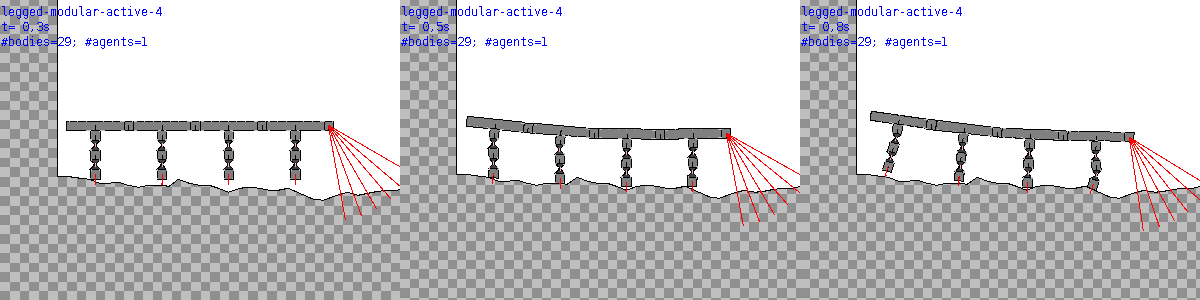
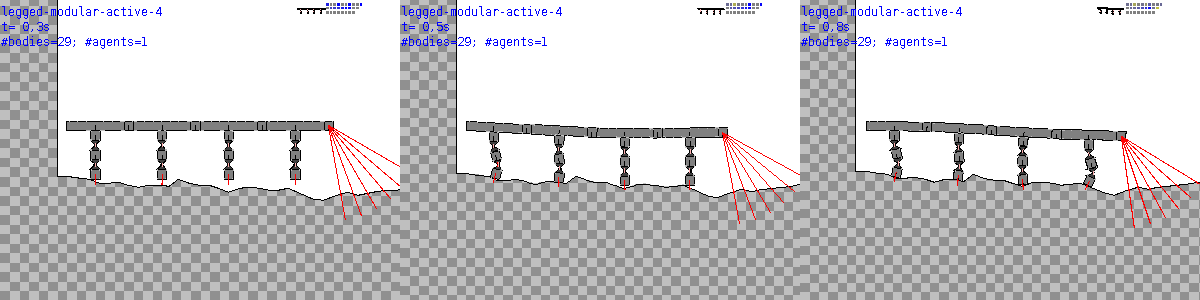
Doc assets updated.

diff --git a/it.units.erallab.robotevo2d.main/src/main/java/it/units/erallab/robotevo2d/main/helper/AgentImageWriter.java b/it.units.erallab.robotevo2d.main/src/main/java/it/units/erallab/robotevo2d/main/helper/AgentImageWriter.java
@@ -45,7 +45,7 @@ public class AgentImageWriter {
   );
 
   private static final String ENGINE_DESCRIPTION = "s.engine()";
-  private static final String DRAWER_DESCRIPTION = "s.drawer(actions = true; miniAgents = false; enlargement = 1.5)";
+  private static final String DRAWER_DESCRIPTION = "s.drawer(actions = true; miniAgents = brains; enlargement = 1.5)";
   private static final String IMGS_PATH = "assets/images/agents/";
 
   private static final int W = 400;

diff --git a/assets/builder-help.md b/assets/builder-help.md
@@ -571,6 +571,21 @@ Aliases: `ea.s`, `ea.solver`
 
 Produces <code><abbr title="it.units.malelab.jgea.core.solver.StandardEvolver">StandardEvolver</abbr><<abbr title="it.units.malelab.jgea.core.solver.state.POSetPopulationState">POSetPopulationState</abbr><<abbr title="java.util.List">List</abbr><<abbr title="java.lang.Double">Double</abbr>>, S, Q>, <abbr title="it.units.malelab.jgea.core.QualityBasedProblem">QualityBasedProblem</abbr><S, Q>, <abbr title="java.util.List">List</abbr><<abbr title="java.lang.Double">Double</abbr>>, S, Q></code>
 
+### Builder `ea.solver.openAIES()`
+
+`ea.s.openAIES(mapper; initialMinV; initialMaxV; sigma; batchSize; nEval)`
+
+| Param | Type | Default | Java type |
+| --- | --- | --- | --- |
+| `mapper` | npm |  | <code><abbr title="it.units.malelab.jgea.experimenter.InvertibleMapper">InvertibleMapper</abbr><<abbr title="java.util.List">List</abbr><<abbr title="java.lang.Double">Double</abbr>>, S></code> |
+| `initialMinV` | d | `-1.0` | <code>double</code> |
+| `initialMaxV` | d | `1.0` | <code>double</code> |
+| `sigma` | d | `0.35` | <code>double</code> |
+| `batchSize` | i | `15` | <code>int</code> |
+| `nEval` | i |  | <code>int</code> |
+
+Produces <code><abbr title="it.units.malelab.jgea.core.solver.OpenAIEvolutionaryStrategy">OpenAIEvolutionaryStrategy</abbr><S, Q></code>
+
 ### Builder `ea.solver.simpleES()`
 
 `ea.s.simpleES(mapper; initialMinV; initialMaxV; sigma; parentsRate; nOfElites; nPop; nEval; remap)`
@@ -687,7 +702,7 @@ Produces <code><abbr title="java.util.random.RandomGenerator">RandomGenerator</a
 | `profilingTime` | d | `1.0` | <code>double</code> |
 | `miniWorldEnlargement` | d | `10.0` | <code>double</code> |
 | `miniWorld` | b | `false` | <code>boolean</code> |
-| `miniAgents` | b | `true` | <code>boolean</code> |
+| `miniAgents` | e | `BRAINS` | <code><abbr title="it.units.erallab.mrsim2d.buildable.builders.Misc$MiniAgentInfo">Misc$MiniAgentInfo</abbr></code> |
 | `engineProfiling` | b | `false` | <code>boolean</code> |
 | `actions` | b | `false` | <code>boolean</code> |
 
@@ -788,10 +803,10 @@ Produces <code><abbr title="it.units.erallab.mrsim2d.core.agents.legged.NumLegge
 | Param | Type | Default | Java type |
 | --- | --- | --- | --- |
 | `legs` | npm[] | `[]` | <code><abbr title="java.util.List">List</abbr><<abbr title="it.units.erallab.mrsim2d.core.agents.legged.AbstractLeggedHybridRobot$Leg">AbstractLeggedHybridRobot$Leg</abbr>></code> |
-| `trunkLength` | d | `16.0` | <code>double</code> |
+| `trunkLength` | d | `24.0` | <code>double</code> |
 | `trunkWidth` | d | `1.0` | <code>double</code> |
-| `trunkMass` | d | `1.0` | <code>double</code> |
-| `headMass` | d | `0.25` | <code>double</code> |
+| `trunkMass` | d | `24.0` | <code>double</code> |
+| `headMass` | d | `1.0` | <code>double</code> |
 | `headSensors` | npm[] | `[]` | <code><abbr title="java.util.List">List</abbr><<abbr title="it.units.erallab.mrsim2d.core.Sensor">Sensor</abbr><?>></code> |
 | `function` | npm |  | <code><abbr title="it.units.erallab.mrsim2d.buildable.builders.TimedRealFunctions$Builder">TimedRealFunctions$Builder</abbr><?></code> |
 
@@ -808,7 +823,7 @@ Aliases: `s.a.l`, `s.a.legged`, `s.agent.l`, `s.agent.legged`, `sim.a.l`, `sim.a
 | Param | Type | Default | Java type |
 | --- | --- | --- | --- |
 | `legChunks` | npm[] | `[]` | <code><abbr title="java.util.List">List</abbr><<abbr title="it.units.erallab.mrsim2d.core.agents.legged.LegChunk">LegChunk</abbr>></code> |
-| `downConnectorMass` | d | `0.5625` | <code>double</code> |
+| `downConnectorMass` | d | `1.1025` | <code>double</code> |
 | `downConnector` | e | `RIGID` | <code><abbr title="it.units.erallab.mrsim2d.core.agents.legged.ConnectorType">ConnectorType</abbr></code> |
 | `downConnectorSensors` | npm[] | `[]` | <code><abbr title="java.util.List">List</abbr><<abbr title="it.units.erallab.mrsim2d.core.Sensor">Sensor</abbr><?>></code> |
 
@@ -820,17 +835,17 @@ Produces <code><abbr title="it.units.erallab.mrsim2d.core.agents.legged.Abstract
 
 | Param | Type | Default | Java type |
 | --- | --- | --- | --- |
-| `length` | d | `1.5` | <code>double</code> |
+| `length` | d | `1.05` | <code>double</code> |
 | `width` | d | `1.0` | <code>double</code> |
-| `mass` | d | `0.375` | <code>double</code> |
+| `mass` | d | `1.05` | <code>double</code> |
 | `upConnector` | e | `RIGID` | <code><abbr title="it.units.erallab.mrsim2d.core.agents.legged.ConnectorType">ConnectorType</abbr></code> |
 | `jointSensors` | npm[] | `[]` | <code><abbr title="java.util.List">List</abbr><<abbr title="it.units.erallab.mrsim2d.core.Sensor">Sensor</abbr><?>></code> |
-| `motorMaxSpeed` | d | `100.0` | <code>double</code> |
+| `motorMaxSpeed` | d | `20.0` | <code>double</code> |
 | `motorMaxTorque` | d | `1000.0` | <code>double</code> |
-| `motorControlP` | d | `25.0` | <code>double</code> |
-| `motorControlI` | d | `1.0` | <code>double</code> |
-| `motorControlD` | d | `1.0` | <code>double</code> |
-| `motorAngleTolerance` | d | `0.01` | <code>double</code> |
+| `motorControlP` | d | `10.0` | <code>double</code> |
+| `motorControlI` | d | `2.0` | <code>double</code> |
+| `motorControlD` | d | `2.0` | <code>double</code> |
+| `motorAngleTolerance` | d | `0.0` | <code>double</code> |
 
 Produces <code><abbr title="it.units.erallab.mrsim2d.core.agents.legged.LegChunk">LegChunk</abbr></code>
 
@@ -840,9 +855,9 @@ Produces <code><abbr title="it.units.erallab.mrsim2d.core.agents.legged.LegChunk
 
 | Param | Type | Default | Java type |
 | --- | --- | --- | --- |
-| `trunkLength` | d | `4.0` | <code>double</code> |
+| `trunkLength` | d | `6.0` | <code>double</code> |
 | `trunkWidth` | d | `1.0` | <code>double</code> |
-| `trunkMass` | d | `1.0` | <code>double</code> |
+| `trunkMass` | d | `6.0` | <code>double</code> |
 | `legChunks` | npm[] | `[]` | <code><abbr title="java.util.List">List</abbr><<abbr title="it.units.erallab.mrsim2d.core.agents.legged.LegChunk">LegChunk</abbr>></code> |
 | `downConnector` | e | `RIGID` | <code><abbr title="it.units.erallab.mrsim2d.core.agents.legged.ConnectorType">ConnectorType</abbr></code> |
 | `rightConnector` | e | `RIGID` | <code><abbr title="it.units.erallab.mrsim2d.core.agents.legged.ConnectorType">ConnectorType</abbr></code> |
@@ -1006,6 +1021,21 @@ Aliases: `s.f`, `s.function`, `sim.f`, `sim.function`
 
 Produces <code><abbr title="it.units.erallab.mrsim2d.buildable.builders.TimedRealFunctions$Builder">TimedRealFunctions$Builder</abbr><<abbr title="it.units.erallab.mrsim2d.core.functions.DiffInputTRF">DiffInputTRF</abbr>></code>
 
+### Builder `sim.function.groupedSin()`
+
+`s.f.groupedSin(size; p; f; a; b; s)`
+
+| Param | Type | Default | Java type |
+| --- | --- | --- | --- |
+| `size` | i |  | <code>int</code> |
+| `p` | npm | `sim.range(max=1.57;min=-1.57)` | <code><abbr title="it.units.erallab.mrsim2d.core.util.DoubleRange">DoubleRange</abbr></code> |
+| `f` | npm | `sim.range(max=1.0;min=0.0)` | <code><abbr title="it.units.erallab.mrsim2d.core.util.DoubleRange">DoubleRange</abbr></code> |
+| `a` | npm | `sim.range(max=0.5;min=0.0)` | <code><abbr title="it.units.erallab.mrsim2d.core.util.DoubleRange">DoubleRange</abbr></code> |
+| `b` | npm | `sim.range(max=0.5;min=-0.5)` | <code><abbr title="it.units.erallab.mrsim2d.core.util.DoubleRange">DoubleRange</abbr></code> |
+| `s` | npm | `sim.range(max=0.5;min=-0.5)` | <code><abbr title="it.units.erallab.mrsim2d.core.util.DoubleRange">DoubleRange</abbr></code> |
+
+Produces <code><abbr title="it.units.erallab.mrsim2d.buildable.builders.TimedRealFunctions$Builder">TimedRealFunctions$Builder</abbr><<abbr title="it.units.erallab.mrsim2d.core.functions.GroupedSinusoidal">GroupedSinusoidal</abbr>></code>
+
 ### Builder `sim.function.mlp()`
 
 `s.f.mlp(innerLayerRatio; nOfInnerLayers; activationFunction)`
@@ -1033,49 +1063,66 @@ Produces <code><abbr title="it.units.erallab.mrsim2d.buildable.builders.TimedRea
 
 ### Builder `sim.function.sinP()`
 
-`s.f.sinP(p; f; a)`
+`s.f.sinP(p; f; a; b)`
 
 | Param | Type | Default | Java type |
 | --- | --- | --- | --- |
 | `p` | npm | `sim.range(max=1.57;min=-1.57)` | <code><abbr title="it.units.erallab.mrsim2d.core.util.DoubleRange">DoubleRange</abbr></code> |
 | `f` | npm | `sim.range(max=1.0;min=0.0)` | <code><abbr title="it.units.erallab.mrsim2d.core.util.DoubleRange">DoubleRange</abbr></code> |
 | `a` | npm | `sim.range(max=1.0;min=0.0)` | <code><abbr title="it.units.erallab.mrsim2d.core.util.DoubleRange">DoubleRange</abbr></code> |
+| `b` | npm | `sim.range(max=0.5;min=-0.5)` | <code><abbr title="it.units.erallab.mrsim2d.core.util.DoubleRange">DoubleRange</abbr></code> |
 
 Produces <code><abbr title="it.units.erallab.mrsim2d.buildable.builders.TimedRealFunctions$Builder">TimedRealFunctions$Builder</abbr><<abbr title="it.units.erallab.mrsim2d.core.functions.Sinusoidal">Sinusoidal</abbr>></code>
 
 ### Builder `sim.function.sinPA()`
 
-`s.f.sinPA(p; f; a)`
+`s.f.sinPA(p; f; a; b)`
 
 | Param | Type | Default | Java type |
 | --- | --- | --- | --- |
 | `p` | npm | `sim.range(max=1.57;min=-1.57)` | <code><abbr title="it.units.erallab.mrsim2d.core.util.DoubleRange">DoubleRange</abbr></code> |
 | `f` | npm | `sim.range(max=1.0;min=0.0)` | <code><abbr title="it.units.erallab.mrsim2d.core.util.DoubleRange">DoubleRange</abbr></code> |
 | `a` | npm | `sim.range(max=1.0;min=0.0)` | <code><abbr title="it.units.erallab.mrsim2d.core.util.DoubleRange">DoubleRange</abbr></code> |
+| `b` | npm | `sim.range(max=0.5;min=-0.5)` | <code><abbr title="it.units.erallab.mrsim2d.core.util.DoubleRange">DoubleRange</abbr></code> |
 
 Produces <code><abbr title="it.units.erallab.mrsim2d.buildable.builders.TimedRealFunctions$Builder">TimedRealFunctions$Builder</abbr><<abbr title="it.units.erallab.mrsim2d.core.functions.Sinusoidal">Sinusoidal</abbr>></code>
 
 ### Builder `sim.function.sinPF()`
 
-`s.f.sinPF(p; f; a)`
+`s.f.sinPF(p; f; a; b)`
 
 | Param | Type | Default | Java type |
 | --- | --- | --- | --- |
 | `p` | npm | `sim.range(max=1.57;min=-1.57)` | <code><abbr title="it.units.erallab.mrsim2d.core.util.DoubleRange">DoubleRange</abbr></code> |
 | `f` | npm | `sim.range(max=1.0;min=0.0)` | <code><abbr title="it.units.erallab.mrsim2d.core.util.DoubleRange">DoubleRange</abbr></code> |
 | `a` | npm | `sim.range(max=1.0;min=0.0)` | <code><abbr title="it.units.erallab.mrsim2d.core.util.DoubleRange">DoubleRange</abbr></code> |
+| `b` | npm | `sim.range(max=0.5;min=-0.5)` | <code><abbr title="it.units.erallab.mrsim2d.core.util.DoubleRange">DoubleRange</abbr></code> |
 
 Produces <code><abbr title="it.units.erallab.mrsim2d.buildable.builders.TimedRealFunctions$Builder">TimedRealFunctions$Builder</abbr><<abbr title="it.units.erallab.mrsim2d.core.functions.Sinusoidal">Sinusoidal</abbr>></code>
 
 ### Builder `sim.function.sinPFA()`
 
-`s.f.sinPFA(p; f; a)`
+`s.f.sinPFA(p; f; a; b)`
 
 | Param | Type | Default | Java type |
 | --- | --- | --- | --- |
 | `p` | npm | `sim.range(max=1.57;min=-1.57)` | <code><abbr title="it.units.erallab.mrsim2d.core.util.DoubleRange">DoubleRange</abbr></code> |
 | `f` | npm | `sim.range(max=1.0;min=0.0)` | <code><abbr title="it.units.erallab.mrsim2d.core.util.DoubleRange">DoubleRange</abbr></code> |
 | `a` | npm | `sim.range(max=1.0;min=0.0)` | <code><abbr title="it.units.erallab.mrsim2d.core.util.DoubleRange">DoubleRange</abbr></code> |
+| `b` | npm | `sim.range(max=0.5;min=-0.5)` | <code><abbr title="it.units.erallab.mrsim2d.core.util.DoubleRange">DoubleRange</abbr></code> |
+
+Produces <code><abbr title="it.units.erallab.mrsim2d.buildable.builders.TimedRealFunctions$Builder">TimedRealFunctions$Builder</abbr><<abbr title="it.units.erallab.mrsim2d.core.functions.Sinusoidal">Sinusoidal</abbr>></code>
+
+### Builder `sim.function.sinPFAB()`
+
+`s.f.sinPFAB(p; f; a; b)`
+
+| Param | Type | Default | Java type |
+| --- | --- | --- | --- |
+| `p` | npm | `sim.range(max=1.57;min=-1.57)` | <code><abbr title="it.units.erallab.mrsim2d.core.util.DoubleRange">DoubleRange</abbr></code> |
+| `f` | npm | `sim.range(max=1.0;min=0.0)` | <code><abbr title="it.units.erallab.mrsim2d.core.util.DoubleRange">DoubleRange</abbr></code> |
+| `a` | npm | `sim.range(max=1.0;min=0.0)` | <code><abbr title="it.units.erallab.mrsim2d.core.util.DoubleRange">DoubleRange</abbr></code> |
+| `b` | npm | `sim.range(max=0.5;min=-0.5)` | <code><abbr title="it.units.erallab.mrsim2d.core.util.DoubleRange">DoubleRange</abbr></code> |
 
 Produces <code><abbr title="it.units.erallab.mrsim2d.buildable.builders.TimedRealFunctions$Builder">TimedRealFunctions$Builder</abbr><<abbr title="it.units.erallab.mrsim2d.core.functions.Sinusoidal">Sinusoidal</abbr>></code>
 
@@ -1122,6 +1169,12 @@ Produces <code><abbr title="it.units.erallab.mrsim2d.core.Sensor">Sensor</abbr><
 | `r` | d | `1.0` | <code><abbr title="java.lang.Double">Double</abbr></code> |
 
 Produces <code><abbr title="it.units.erallab.mrsim2d.core.Sensor">Sensor</abbr><<abbr title="it.units.erallab.mrsim2d.core.bodies.Body">Body</abbr>></code>
+
+### Builder `sim.sensor.ja()`
+
+`s.s.ja()`
+
+Produces <code><abbr title="it.units.erallab.mrsim2d.core.Sensor">Sensor</abbr><<abbr title="it.units.erallab.mrsim2d.core.bodies.RotationalJoint">RotationalJoint</abbr>></code>
 
 ### Builder `sim.sensor.rv()`
 
@@ -1194,7 +1247,7 @@ Produces <code><abbr title="it.units.erallab.mrsim2d.core.tasks.piling.FallPilin
 | `duration` | d | `30.0` | <code>double</code> |
 | `terrain` | npm | `sim.terrain.flat()` | <code><abbr title="it.units.erallab.mrsim2d.core.geometry.Terrain">Terrain</abbr></code> |
 | `initialXGap` | d | `1.0` | <code>double</code> |
-| `initialYGap` | d | `1.0` | <code>double</code> |
+| `initialYGap` | d | `0.1` | <code>double</code> |
 
 Produces <code><abbr title="it.units.erallab.mrsim2d.core.tasks.locomotion.Locomotion">Locomotion</abbr></code>
 
